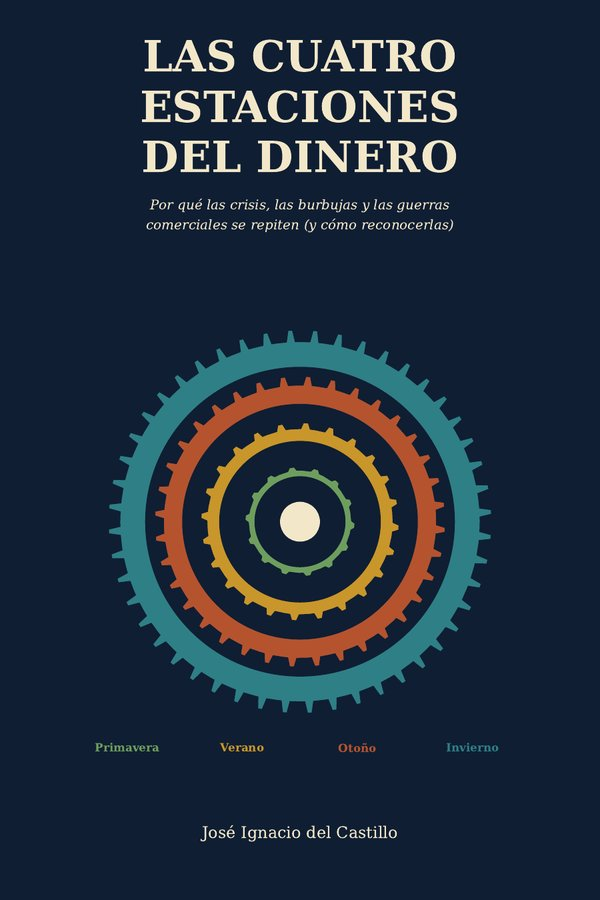
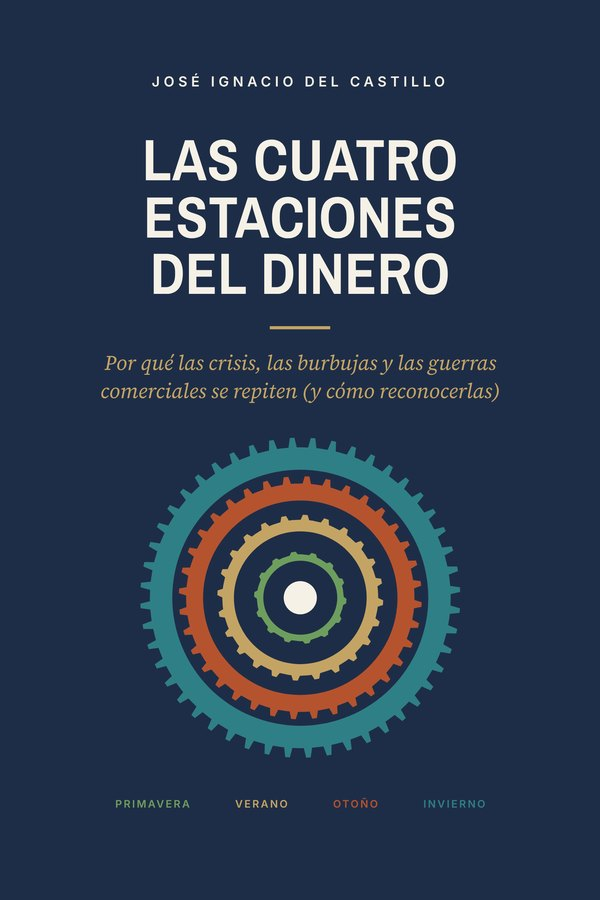
Cubiertas nuevas de Matar al mensajero y Las cuatro estaciones del dinero; imágenes con huella para que no se use la copia antigua
Claude-Session: https://claude.ai/code/session_01JxiwzTQ4gCadbfueEUASSR

diff --git a/build.py b/build.py
@@ -118,7 +118,7 @@ def compra(l, ver=True, paises=False):
 
 def tarjeta(l):
     return f'''<article class="tarjeta aparece">
-<a href="/libros/{l["id"]}/" tabindex="-1" aria-hidden="true"><picture><source srcset="/img/{l["id"]}.webp" type="image/webp"><img class="cubierta" src="/img/{l["id"]}.jpg" width="600" height="900" alt="" loading="lazy"></picture></a>
+<a href="/libros/{l["id"]}/" tabindex="-1" aria-hidden="true"><picture><source srcset="/img/{l["id"]}.webp?v={version("img/"+l["id"]+".webp")}" type="image/webp"><img class="cubierta" src="/img/{l["id"]}.jpg?v={version("img/"+l["id"]+".jpg")}" width="600" height="900" alt="" loading="lazy"></picture></a>
 <div><div class="etiquetas"><span class="pildora">{l["orden"]} · {esc(l["pregunta"])}</span><span class="pildora neutra">Libro</span></div>
 <h3><a href="/libros/{l["id"]}/">{esc(l["titulo"])}</a></h3>
 <p class="subtitulo">{esc(l["subtitulo"])}</p>
@@ -208,7 +208,7 @@ def pagina_libro(l):
     cuerpo = f'''<section><div class="envoltorio">
 <p class="miga"><a href="/">Inicio</a> · <a href="/#libros">Libros</a></p>
 <div class="ficha" style="margin-top:28px">
-<picture><source srcset="/img/{l["id"]}.webp" type="image/webp"><img class="cubierta" src="/img/{l["id"]}.jpg" width="600" height="900" alt="Cubierta de {esc(l["titulo"])}"></picture>
+<picture><source srcset="/img/{l["id"]}.webp?v={version("img/"+l["id"]+".webp")}" type="image/webp"><img class="cubierta" src="/img/{l["id"]}.jpg?v={version("img/"+l["id"]+".jpg")}" width="600" height="900" alt="Cubierta de {esc(l["titulo"])}"></picture>
 <div><div class="etiquetas" style="display:flex;gap:6px"><span class="pildora">{l["orden"]} · {esc(l["pregunta"])}</span><span class="pildora neutra">Libro</span></div>
 <h1>{esc(l["titulo"])}</h1>
 <p class="subtitulo">{esc(l["subtitulo"])}</p>
